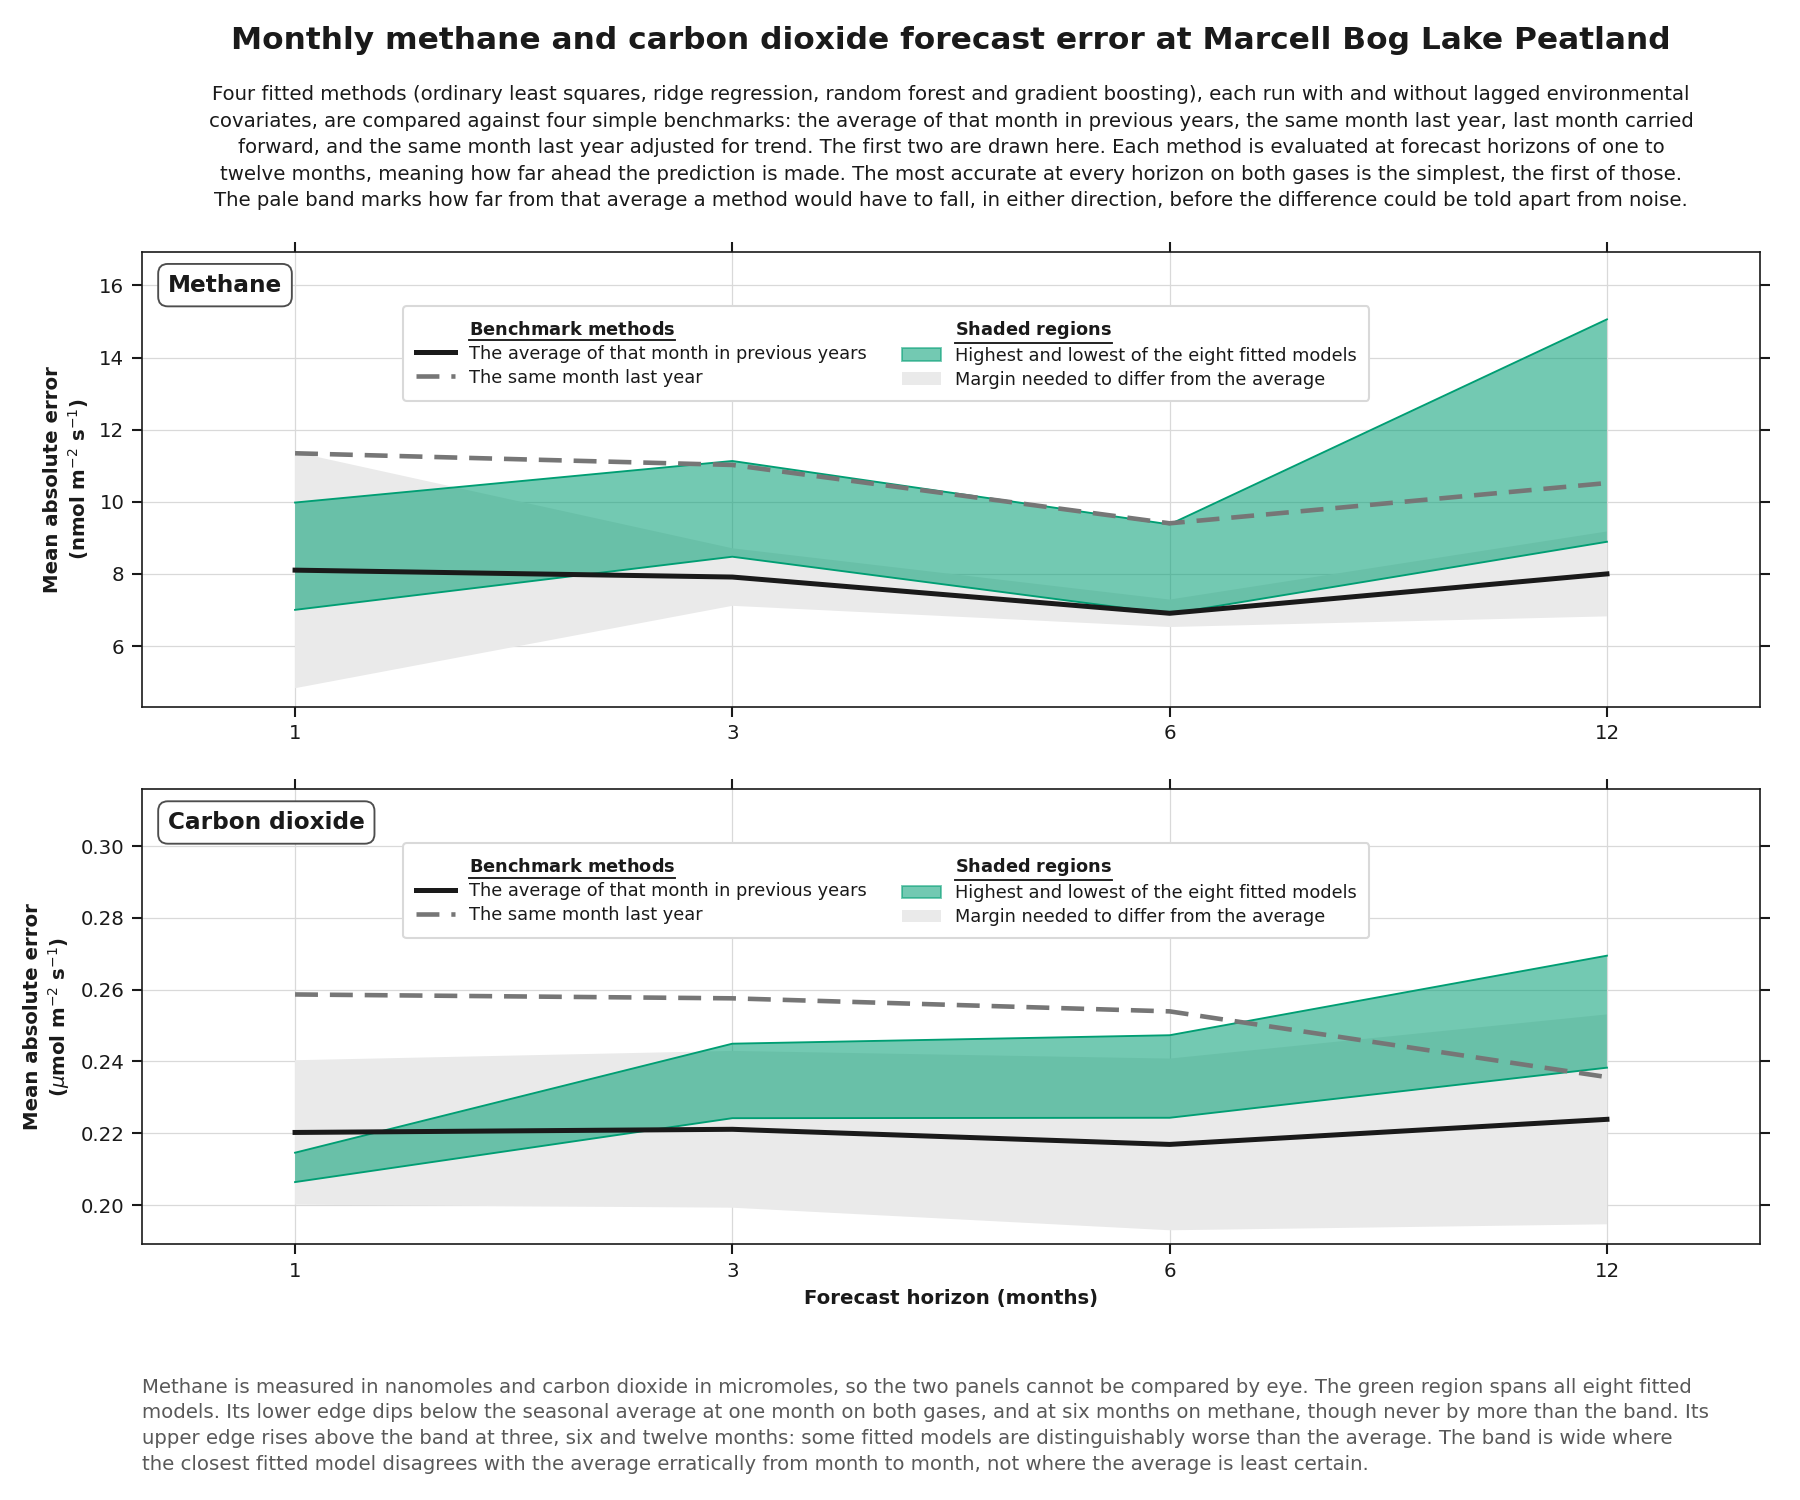
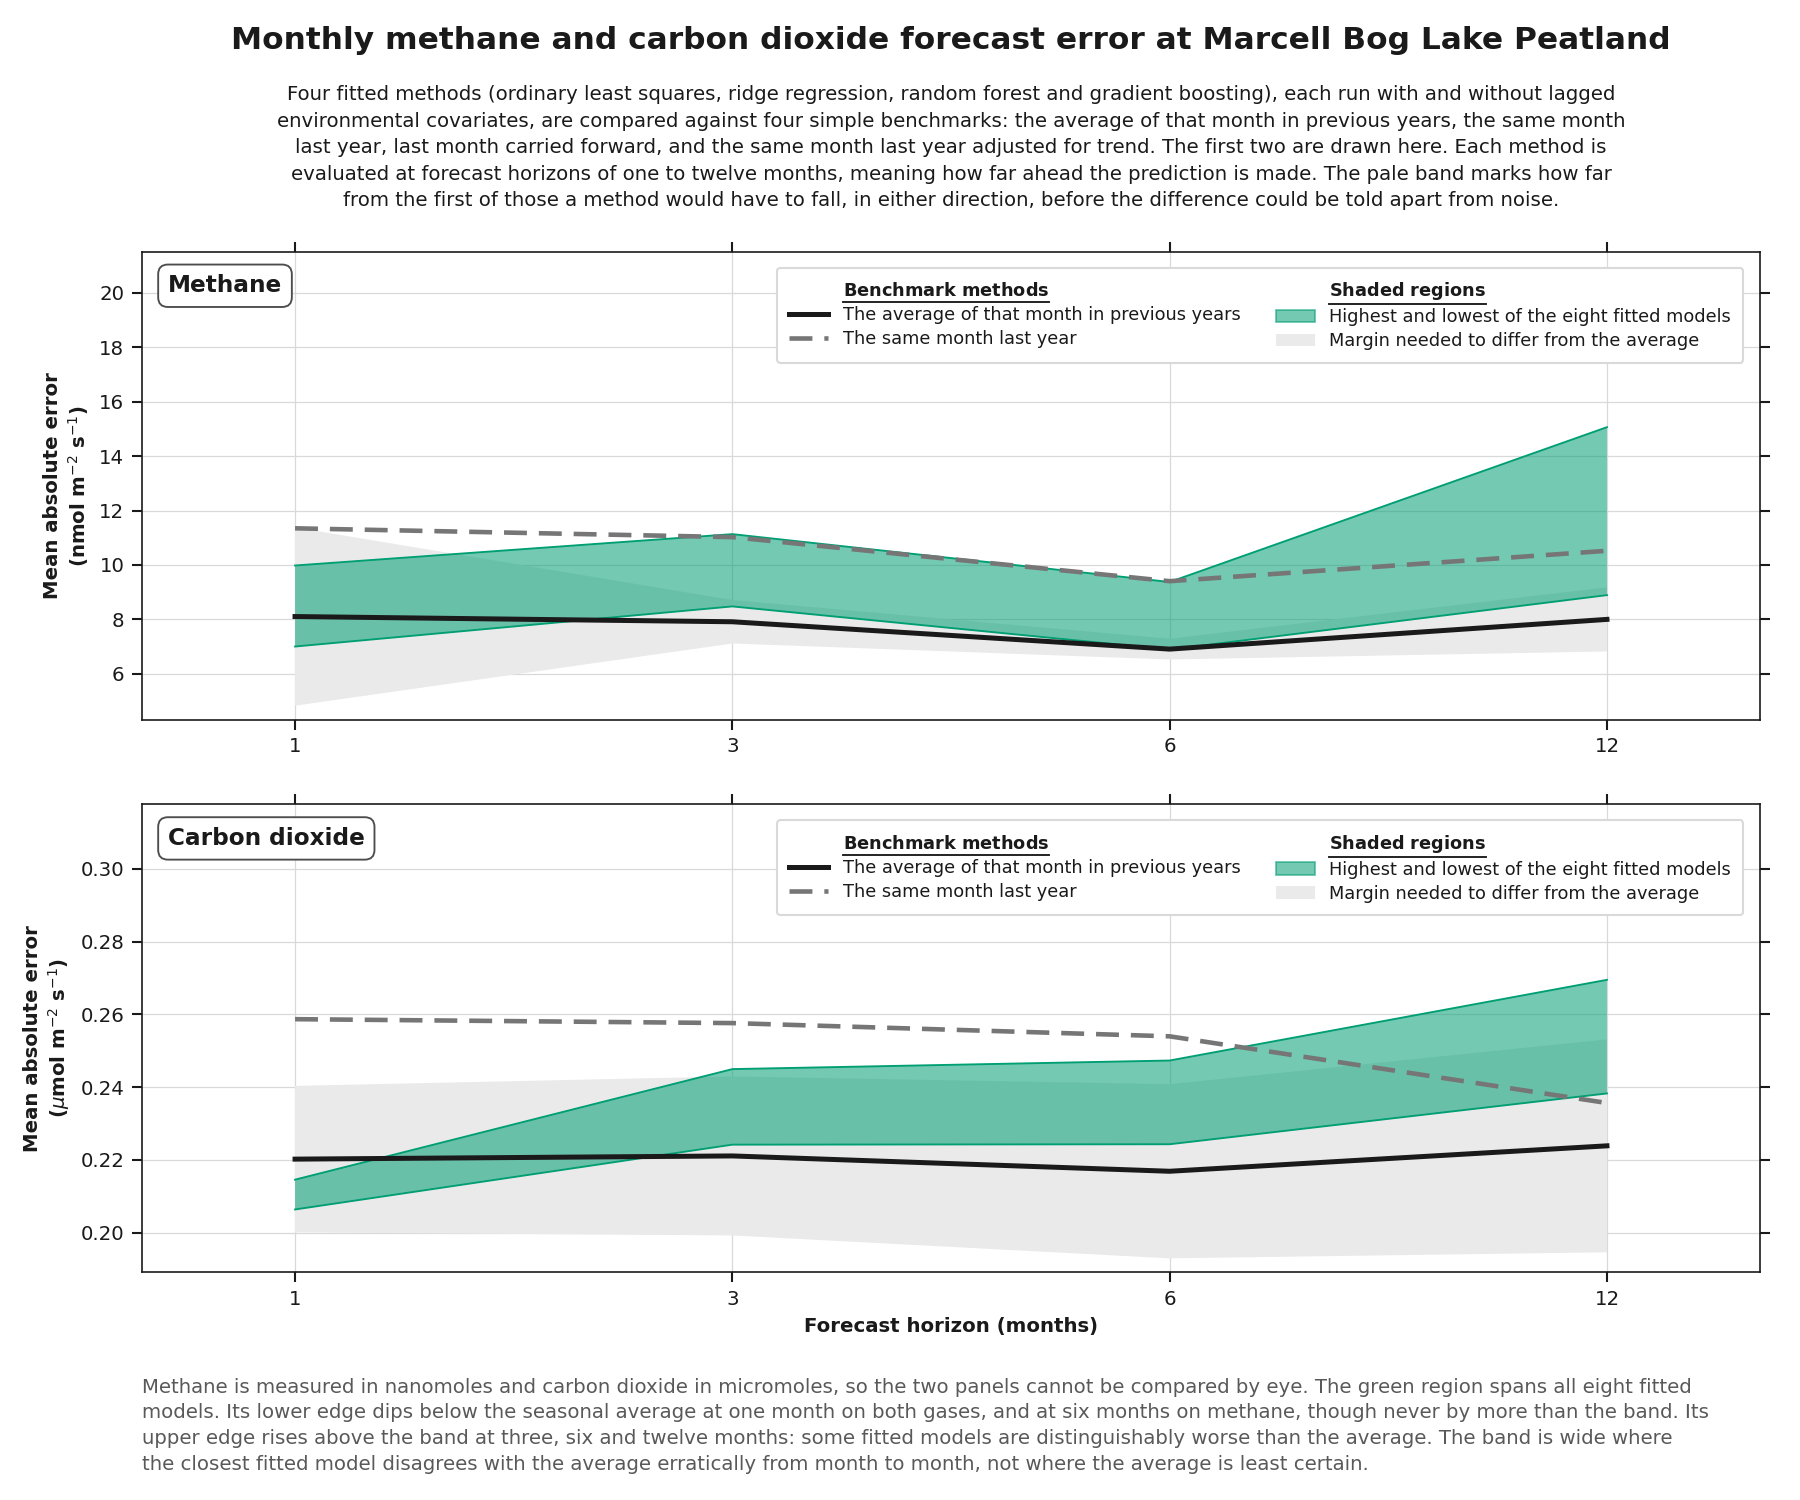
Cut the climatology sentence, and lift both keys to the frame
With the four benchmarks named in the sentence above, the finding sentence
restated what the reader had just read, the description says it again below,
and the panel shows it directly since the black line sits at or below
everything. Cutting it leaves four sentences and the same five lines, so it
buys clarity rather than height.

The band sentence loses its antecedent with that cut. "How far from that
average" pointed at the sentence just removed, and the nearest average is now
two hundred characters back inside the list, so it reads "how far from the
first of those" instead.

Both keys move from mid-panel to the top right corner of their frames, 16 px in
from each edge. The cost is on methane, whose highest series is at twelve months
directly under the key: its data now fills 62.5% of the panel against 85.2%
before. Carbon dioxide barely moves, 63.4% to 62.5%, since its benchmark line
already ran high enough to force the same headroom. The two panels now hold the
same proportion, which is the compensation: they differed by 22 points for a
reason no reader could see.

The headings are ruled after the block is balanced rather than before. The rules
are figure artists at fixed figure coordinates, so balancing afterwards slid the
carbon dioxide legend out from under its two and they struck through the text.

diff --git a/src/study/figures.py b/src/study/figures.py
@@ -426,10 +426,9 @@ FORECAST_TEXT = ps.FigureText(
         "last month carried forward, and the same month last year adjusted for "
         "trend. The first two are drawn here. Each method is evaluated at "
         "forecast horizons of one to twelve months, meaning how far ahead the "
-        "prediction is made. The most accurate at every horizon on both gases is "
-        "the simplest, the first of those. The pale band marks how far from that "
-        "average a method would have to fall, in either direction, before the "
-        "difference could be told apart from noise."
+        "prediction is made. The pale band marks how far from the first of those "
+        "a method would have to fall, in either direction, before the difference "
+        "could be told apart from noise."
     ),
     description=(
         "Methane is measured in nanomoles and carbon dioxide in micromoles, so "
@@ -529,6 +528,11 @@ def forecast_error_by_horizon(panels: dict[str, pd.DataFrame]) -> Figure:
     # holds at three, so a reader met it twice above the axis and once below.
     for ax in axes:
         _raise_top_until_furniture_clears(ax)
+    # Balance before ruling the headings. The rules are figure artists at fixed
+    # figure coordinates, so anything that moves an axes afterwards slides its
+    # legend out from under them.
+    ps.balance_drawing_block(fig, *axes)
+    for ax in axes:
         _underline_legend_headings(fig, ax)
     return fig
 
@@ -592,7 +596,7 @@ def _forecast_legend(ax) -> None:
          "Margin needed to differ from the average"),
     ]
     ps.legend(ax, handles=[h for h, _ in entries], labels=[label for _, label in entries],
-              loc="upper center", bbox_to_anchor=(0.46, 0.90), ncol=2, borderpad=0.7,
+              loc="upper right", bbox_to_anchor=(0.995, 0.985), ncol=2, borderpad=0.7,
               labelspacing=0.34, columnspacing=2.0, handlelength=2.2,
               handletextpad=0.8, fontsize=ps.LEGEND_SIZE - 1.0, framealpha=1.0)
 

diff --git a/figures/README_fragments.md b/figures/README_fragments.md
@@ -26,7 +26,7 @@ Each marker is one year's emission in grams of carbon per square meter, from rel
 
 ![Monthly methane and carbon dioxide forecast error at Marcell Bog Lake Peatland](figures/forecast_error_by_horizon.png)
 
-**Four fitted methods (ordinary least squares, ridge regression, random forest and gradient boosting), each run with and without lagged environmental covariates, are compared against four simple benchmarks: the average of that month in previous years, the same month last year, last month carried forward, and the same month last year adjusted for trend. The first two are drawn here. Each method is evaluated at forecast horizons of one to twelve months, meaning how far ahead the prediction is made. The most accurate at every horizon on both gases is the simplest, the first of those. The pale band marks how far from that average a method would have to fall, in either direction, before the difference could be told apart from noise.**
+**Four fitted methods (ordinary least squares, ridge regression, random forest and gradient boosting), each run with and without lagged environmental covariates, are compared against four simple benchmarks: the average of that month in previous years, the same month last year, last month carried forward, and the same month last year adjusted for trend. The first two are drawn here. Each method is evaluated at forecast horizons of one to twelve months, meaning how far ahead the prediction is made. The pale band marks how far from the first of those a method would have to fall, in either direction, before the difference could be told apart from noise.**
 
 Methane is measured in nanomoles and carbon dioxide in micromoles, so the two panels cannot be compared by eye. The green region spans all eight fitted models. Its lower edge dips below the seasonal average at one month on both gases, and at six months on methane, though never by more than the band. Its upper edge rises above the band at three, six and twelve months: some fitted models are distinguishably worse than the average. The band is wide where the closest fitted model disagrees with the average erratically from month to month, not where the average is least certain.
 
